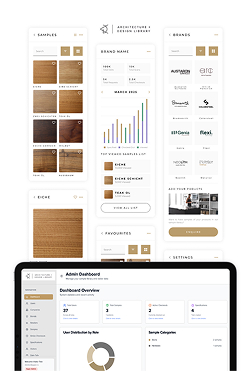
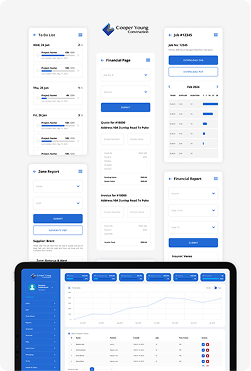
new updates

diff --git a/Components/OurTrustedClients.js b/Components/OurTrustedClients.js
@@ -13,16 +13,20 @@ import "swiper/css/pagination";
 // import Swiper core and required modules
 const OTC = "OurTrustedClients";
 const clients = [
-  { src: "/assets/clients/1.png", alt: "Hello Sushi" },
-  { src: "/assets/clients/2.png", alt: "Ourfffarm" },
-  { src: "/assets/clients/3.png", alt: "Prawn Park" },
-  { src: "/assets/clients/4.png", alt: "MainStream" },
-  { src: "/assets/clients/5.png", alt: "NZ Hops" },
-  { src: "/assets/clients/6.png", alt: "Clim Systems" },
-  { src: "/assets/clients/7.png", alt: "Giltrap Ag" },
-  { src: "/assets/clients/8.png", alt: "Huntmate" },
-  { src: "/assets/clients/9.png", alt: "Virotech" },
-  { src: "/assets/clients/10.png", alt: "Wilson Contractors" },
+  { src: "/assets/clients/Clim_Systems_Logo.png", alt: "Clim Systems Logo" },
+  { src: "/assets/clients/Cooper_Young_Logo.png", alt: "Cooper Young Logo" },
+  { src: "/assets/clients/Enerpro_Logo.png", alt: "Enterpro Logo" },
+  { src: "/assets/clients/Giltrap_AG_Logo.png", alt: "Giltrap AG Logo" },
+  { src: "/assets/clients/Hunt_Mate_Logo.png", alt: "Hunt Mate Logo" },
+  { src: "/assets/clients/Hustler_Logo.png", alt: "Hustler Logo" },
+  { src: "/assets/clients/LOXnGO_Logo.png", alt: "LOXnGO Logo" },
+  { src: "/assets/clients/NZ_Enviro_Logo.png", alt: "NZ Enviro Logo" },
+  { src: "/assets/clients/Omega_Logo.png", alt: "Omega Logo" },
+  { src: "/assets/clients/Rata_Logo.png", alt: "Rata Logo" },
+  { src: "/assets/clients/SAM_Machinery_Logo.png", alt: "SAM Machinery Logo" },
+  { src: "/assets/clients/Swim_Legion_Logo.png", alt: "Swim Legion Logo" },
+  { src: "/assets/clients/Virotech_Logo.png", alt: "Virotech Logo" },
+  { src: "/assets/clients/Wilson_Contractors_Logo.png", alt: "Wilson Contractors Logo" },
 ];
 export default function OurTrustedClients() {
   const { ref, inView } = useInView({ threshold: 0.6 });
@@ -92,8 +96,9 @@ export default function OurTrustedClients() {
             spaceBetween={0}
             className="mySwiper flex">
             {clients.map((client) => (
-              <SwiperSlide key={client.alt} className="flex h-auto justify-center items-center">
+              <SwiperSlide key={client.alt} className="flex justify-center items-center">
                 <motion.img
+                  className="flex w-2/3 h-auto justify-center items-center"
                   animate={inView ? "show" : "hidden"}
                   variants={item}
                   src={client.src}

diff --git a/Components/SliderGrid.js b/Components/SliderGrid.js
@@ -12,26 +12,18 @@ import SwiperCore, { Grid, Navigation, Pagination } from "swiper";
 
 SwiperCore.use([Grid, Pagination, Navigation]);
 const tiles = [
-  "/assets/tiles/1.jpg",
-  "/assets/tiles/2.jpg",
-  "/assets/tiles/3.jpg",
-  "/assets/tiles/4.jpg",
-  "/assets/tiles/5.jpg",
-  "/assets/tiles/6.jpg",
-  "/assets/tiles/7.jpg",
-  "/assets/tiles/8.jpg",
-  "/assets/tiles/9.jpg",
-  "/assets/tiles/10.jpg",
-  "/assets/tiles/11.jpg",
-  "/assets/tiles/12.jpg",
-  // "/assets/tiles/13.jpg",
-  // "/assets/tiles/14.jpg",
-  // "/assets/tiles/15.jpg",
-  // "/assets/tiles/16.jpg",
-  // "/assets/tiles/17.jpeg",
-  // "/assets/tiles/18.jpeg",
-  // "/assets/tiles/19.jpeg",
-  // "/assets/tiles/20.jpeg",
+  { src: "/assets/tiles/1.jpg", alt: "INTA-WOOD FORESTRY" },
+  { src: "/assets/tiles/2.jpg", alt: "LOX N GO" },
+  { src: "/assets/tiles/3.jpg", alt: "KTA" },
+  { src: "/assets/tiles/4.jpg", alt: "OMEGA WINDOWS" },
+  { src: "/assets/tiles/5.jpg", alt: "AD LIBRARY" },
+  { src: "/assets/tiles/6.jpg", alt: "COBBLE KINGS" },
+  { src: "/assets/tiles/7.jpg", alt: "HUNT MATE" },
+  { src: "/assets/tiles/8.jpg", alt: "HUSTLER EQUIPMENT" },
+  { src: "/assets/tiles/9.jpg", alt: "VIROTECH" },
+  { src: "/assets/tiles/10.jpg", alt: "Cooper Young" },
+  { src: "/assets/tiles/11.jpg", alt: "SWIM LEGION" },
+  { src: "/assets/tiles/12.jpg", alt: "GILTRAP AGRIZONE" },
 ];
 export default function SliderGrid() {
   const [sliderProps, setSlideProps] = useState({ slidesPerView: 2, rows: 3 });
@@ -92,8 +84,11 @@ export default function SliderGrid() {
         {tiles.map((tile, i) => (
           <SwiperSlide key={i}>
             <div className="p-2.5">
-              <div className="Tiles__wrap ">
-                <img className="Tiles__tile" src={tile} alt="App example" />
+              <div className="Tiles__wrap relative group">
+                <div className="Tiles__backdrop absolute top-1/2 left-1/2 -translate-x-1/2 -translate-y-1/2 w-full h-full bg-black bg-opacity-60 z-10 flex justify-center items-center">
+                  <span className="font-bold  text-lg text-white text-center">{tile.alt}</span>
+                </div>
+                <img className="Tiles__tile" src={tile.src} alt={tile.src} />
               </div>
             </div>
           </SwiperSlide>

diff --git a/Components/Services.js b/Components/Services.js
@@ -1,5 +1,4 @@
 import { motion } from "framer-motion";
-import React from "react";
 import { useInView } from "react-intersection-observer";
 import Brief from "./Brief";
 import Heading from "./Heading";
@@ -36,8 +35,7 @@ export default function Services() {
           initial="hidden"
           animate={inView ? "show" : "hidden"}
           id="services"
-          className={`${S}__services-grid`}
-        >
+          className={`${S}__services-grid`}>
           {services.map((service, i) => (
             <>
               <motion.div variants={item} className={`${S}__service`}>
@@ -51,7 +49,7 @@ export default function Services() {
           ))}
         </motion.div>
         <Brief
-          text={` Our app developer services include Custom Apps, App Products, App Hosting, and App Design. From initial design to app hosting, our app developers are equipped to handle every aspect with precision and care.
+          text={` Custom apps, smooth design, reliable hosting, and full development — all built under one roof. From idea to launch, we handle it end-to-end so your app works beautifully.
           `}
         />
       </div>

diff --git a/Components/Header.js b/Components/Header.js
@@ -65,10 +65,14 @@ export default function Header({ scrolled, showMenu, setShowMenu }) {
               className="client uppercase leading-none py-2.5 px-4 bg-blue text-white font-bold">
               client area
             </a>
-            <a className="leading-none text-base phone relative" href="mailto:hello@apped.nz">
-              <span className="number">hello@apped.nz</span>{" "}
-              {/* <img className="phone-icon" src="/assets/email.svg" alt="send email" /> */}
-            </a>{" "}
+            {scrolled ? (
+              <a className="leading-none text-base phone relative" href="mailto:hello@apped.nz">
+                <span className="number">hello@apped.nz</span>{" "}
+                {/* <img className="phone-icon" src="/assets/email.svg" alt="send email" /> */}
+              </a>
+            ) : (
+              ""
+            )}
             {scrolled ? (
               <a className="leading-none text-base phone relative" href="tel:+640211695214">
                 <span className="number"> 021 169 5214</span>{" "}

diff --git a/styles/Tiles.scss b/styles/Tiles.scss
@@ -17,18 +17,31 @@
       transform: rotate(-3deg);
       &:nth-child(2n) {
         transform: rotate(3deg);
+
         .Tiles__tile {
           transform: scale(1.2) rotate(-9deg);
         }
+      }
+      .Tiles__backdrop {
+        opacity: 1;
       }
       .Tiles__tile {
         transform: scale(1.2) rotate(9deg);
       }
     }
   }
+  &__backdrop {
+    transition: all 0.3s;
+    opacity: 0;
+    span {
+      transition: all 0.3s;
+      transform: rotate(3deg);
+    }
+  }
   &__tile {
     position: absolute;
-    width: 100%;
+    width: 102%;
+    max-width: unset;
     height: 100%;
     object-fit: cover;
     transition: 0.3s;

diff --git a/pages/_document.js b/pages/_document.js
@@ -33,7 +33,7 @@ height="0" width="0" style="display:none;visibility:hidden"></iframe>`,
           }}></noscript>
         <Main />
         <NextScript />
-        {/* <script
+        <script
           type="text/javascript"
           dangerouslySetInnerHTML={{
             __html: `
@@ -48,7 +48,7 @@ height="0" width="0" style="display:none;visibility:hidden"></iframe>`,
                 })();
               `,
           }}
-        /> */}
+        />
       </body>
     </Html>
   );

diff --git a/Components/Tiles.js b/Components/Tiles.js
@@ -1,4 +1,3 @@
-import React from "react";
 const tiles = [
   "/assets/tiles/1.jpg",
   "/assets/tiles/2.jpg",
@@ -25,7 +24,7 @@ export default function Tiles() {
   return (
     <div className="Tiles">
       {tiles.map((tile, i) => (
-        <div key={i} className="Tiles__wrap">
+        <div key={i} className="Tiles__wrap group">
           <img className="Tiles__tile" src={tile} alt="App example" />
         </div>
       ))}
